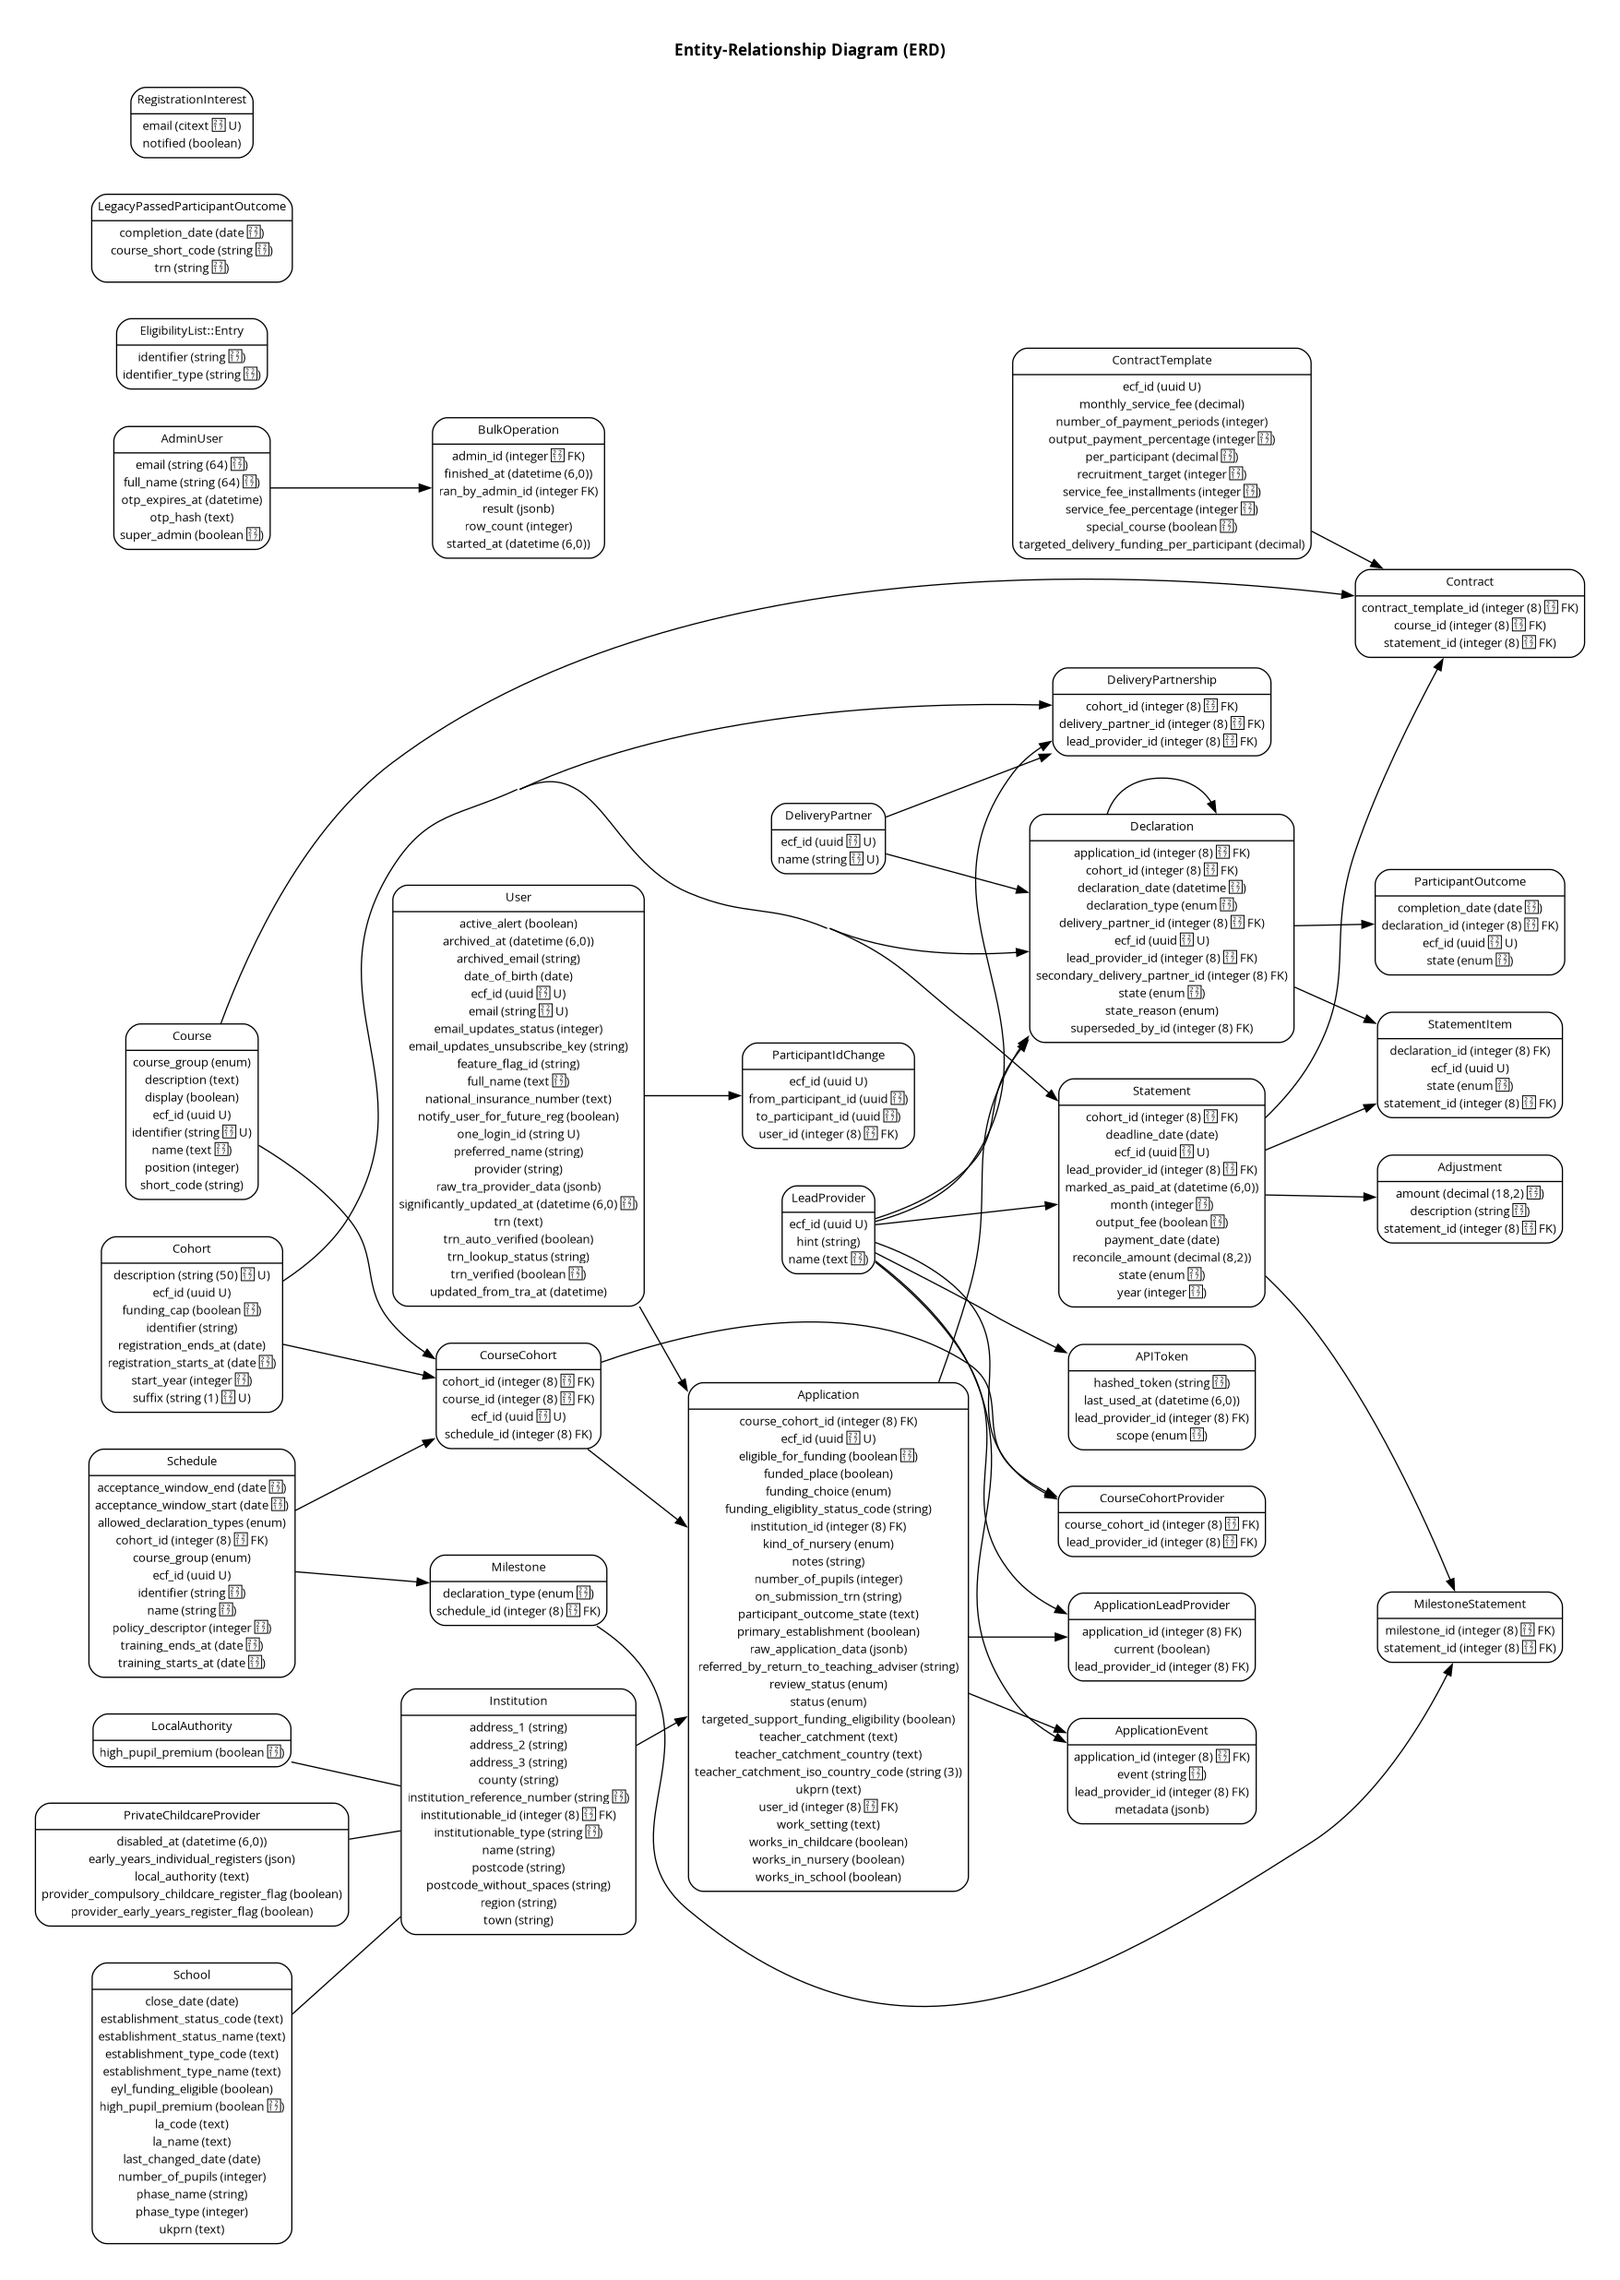
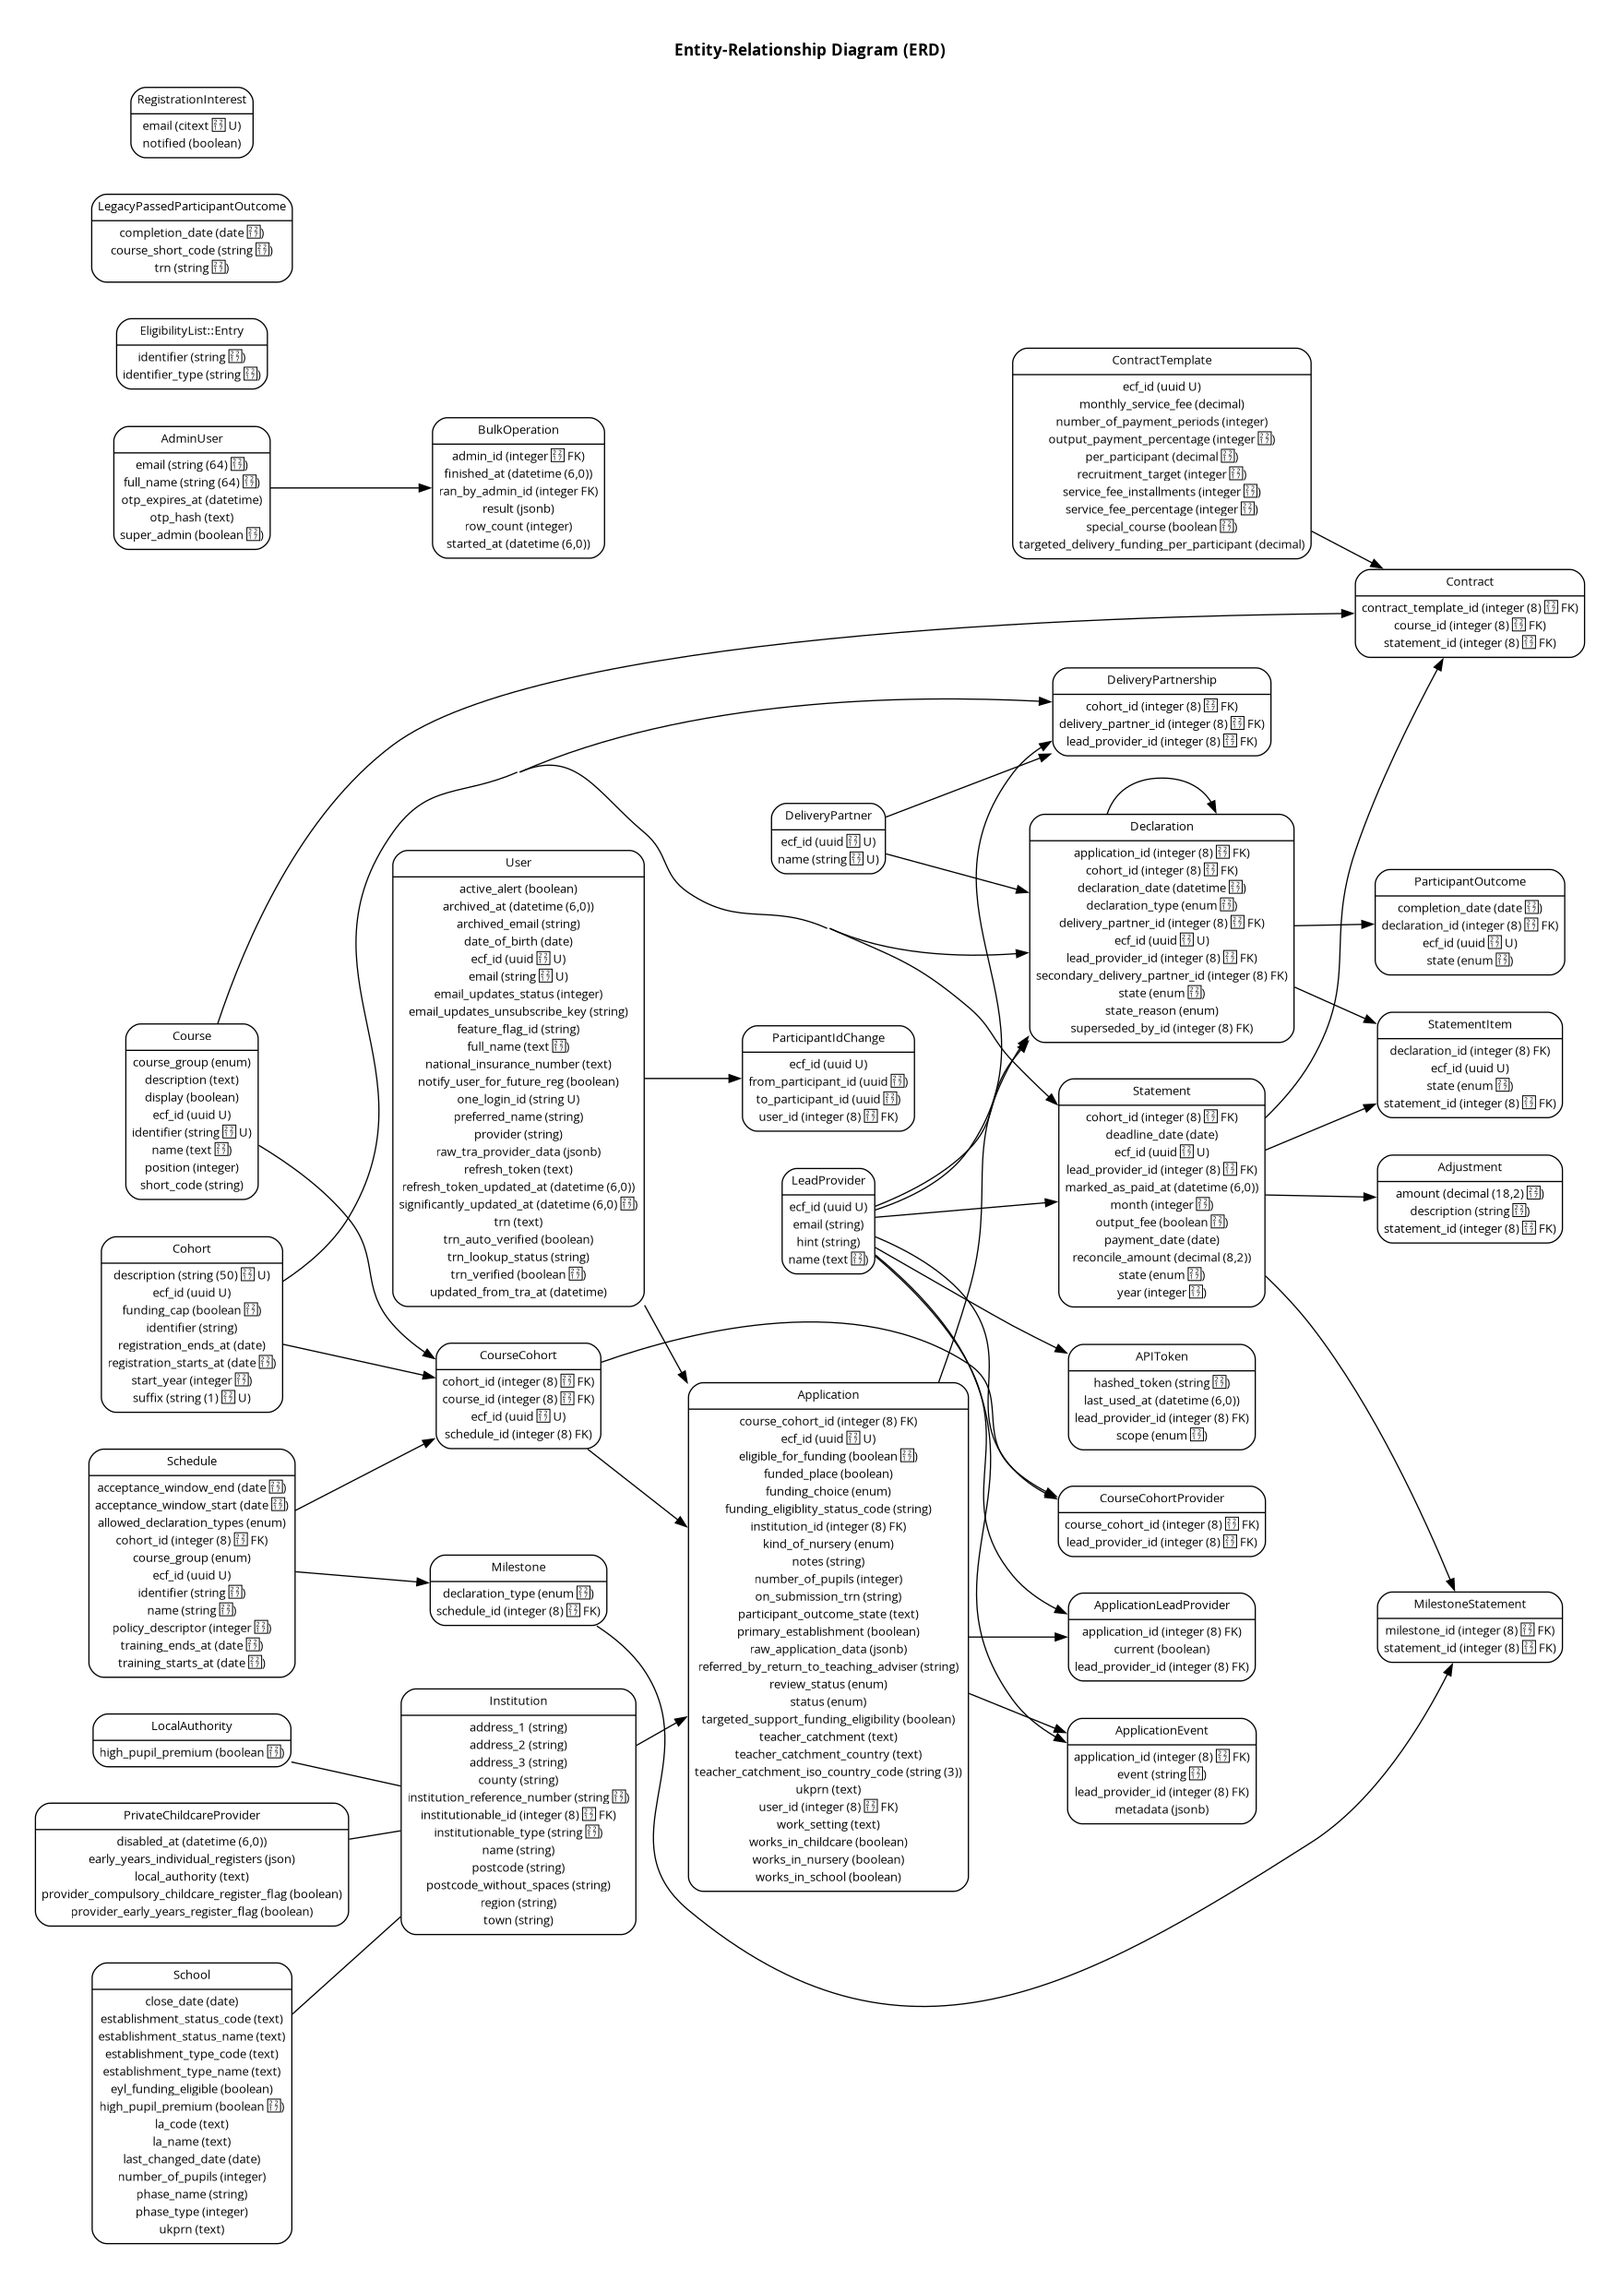
Add ActiveRecord encryption for refresh_token

diff --git a/db/schema.rb b/db/schema.rb
@@ -580,6 +580,8 @@ ActiveRecord::Schema[8.1].define(version: 2026_05_13_120000) do
     t.string "preferred_name"
     t.string "provider"
     t.jsonb "raw_tra_provider_data"
+    t.text "refresh_token"
+    t.datetime "refresh_token_updated_at"
     t.datetime "significantly_updated_at", default: -> { "CURRENT_TIMESTAMP" }, null: false
     t.text "trn"
     t.boolean "trn_auto_verified", default: false
@@ -592,6 +594,7 @@ ActiveRecord::Schema[8.1].define(version: 2026_05_13_120000) do
     t.index ["email"], name: "index_users_on_email", unique: true
     t.index ["one_login_id"], name: "index_users_on_one_login_id", unique: true
     t.index ["provider"], name: "index_users_on_provider"
+    t.index ["refresh_token_updated_at"], name: "index_users_on_refresh_token_updated_at"
     t.index ["significantly_updated_at"], name: "index_users_on_significantly_updated_at"
     t.index ["trn"], name: "index_users_on_trn"
   end

diff --git a/app/models/user.rb b/app/models/user.rb
@@ -1,4 +1,6 @@
 class User < ApplicationRecord
+  encrypts :refresh_token
+
   # TO DO: remove after succesful deploy
   self.ignored_columns += %w[get_an_identity_id_synced_to_ecf]
 
@@ -10,11 +12,13 @@ class User < ApplicationRecord
     notify_user_for_future_reg
     email_updates_status
     email_updates_unsubscribe_key
+    refresh_token
+    refresh_token_updated_at
   ].freeze
 
   devise :omniauthable, omniauth_providers: [Omniauth::Strategies::TeacherAuth::NAME]
 
-  has_paper_trail meta: { note: :version_note }, ignore: %i[raw_tra_provider_data updated_at feature_flag_id]
+  has_paper_trail meta: { note: :version_note }, ignore: %i[raw_tra_provider_data updated_at feature_flag_id refresh_token refresh_token_updated_at]
 
   has_many :applications, dependent: :destroy
   has_many :declarations, through: :applications

diff --git a/spec/features/journeys/happy_paths/basic_registration_journey_spec.rb b/spec/features/journeys/happy_paths/basic_registration_journey_spec.rb
@@ -114,6 +114,8 @@ RSpec.feature "Happy journeys", :with_default_lead_provider, :with_default_sched
                                                              "notify_user_for_future_reg" => false,
                                                              "preferred_name" => nil,
                                                              "raw_tra_provider_data" => nil,
+                                                             "refresh_token" => nil,
+                                                             "refresh_token_updated_at" => nil,
                                                              "trn_auto_verified" => true,
                                                              "trn_lookup_status" => nil,
                                                              "trn_verified" => true,

diff --git a/config/initializers/active_record_encryption.rb b/config/initializers/active_record_encryption.rb
@@ -1,0 +1,9 @@
+# Test environment encryption keys are set in config/environments/test.rb
+# to ensure they're available before eager loading.
+unless Rails.env.test?
+  Rails.application.configure do
+    config.active_record.encryption.primary_key = Rails.application.credentials.dig(:active_record_encryption, :primary_key)
+    config.active_record.encryption.deterministic_key = Rails.application.credentials.dig(:active_record_encryption, :deterministic_key)
+    config.active_record.encryption.key_derivation_salt = Rails.application.credentials.dig(:active_record_encryption, :key_derivation_salt)
+  end
+end

diff --git a/config/environments/test.rb b/config/environments/test.rb
@@ -53,6 +53,11 @@ Rails.application.configure do
 
   config.middleware.use RackSessionAccess::Middleware
 
+  # ActiveRecord encryption keys for testing
+  config.active_record.encryption.primary_key = "test-primary-key-32-bytes-long!"
+  config.active_record.encryption.deterministic_key = "test-deterministic-key-32-bytes!"
+  config.active_record.encryption.key_derivation_salt = "test-key-derivation-salt-value!"
+
   config.service_base_url = "http://test.tte.education.gov.uk"
   config.sign_in_link = "http://test.sign_in.education.gov.uk"
   config.feedback_link = "http://test.feedback.education.gov.uk"

diff --git a/spec/lib/paper_trail_extensions/version_spec.rb b/spec/lib/paper_trail_extensions/version_spec.rb
@@ -74,7 +74,7 @@ RSpec.describe PaperTrailExtensions::Version, :versioning, type: :model do
           "whodunnit" => user_name,
           "created_at" => Time.zone.now,
           "note" => nil,
-          "object_changes" => user.attributes.keys.excluding(%w[updated_at raw_tra_provider_data feature_flag_id]),
+          "object_changes" => user.attributes.keys.excluding(%w[updated_at raw_tra_provider_data feature_flag_id refresh_token refresh_token_updated_at]),
         }
       end
 

diff --git a/spec/services/handle_submission_for_store_spec.rb b/spec/services/handle_submission_for_store_spec.rb
@@ -41,6 +41,8 @@ RSpec.describe HandleSubmissionForStore do
       "national_insurance_number" => nil,
       "notify_user_for_future_reg" => false,
       "preferred_name" => user.preferred_name,
+      "refresh_token" => nil,
+      "refresh_token_updated_at" => nil,
       "trn_auto_verified" => false,
       "trn_lookup_status" => nil,
       "trn_verified" => false,

diff --git a/db/migrate/20260512124235_add_refresh_token_to_users.rb b/db/migrate/20260512124235_add_refresh_token_to_users.rb
@@ -1,0 +1,7 @@
+class AddRefreshTokenToUsers < ActiveRecord::Migration[8.1]
+  def change
+    add_column :users, :refresh_token, :text
+    add_column :users, :refresh_token_updated_at, :datetime
+    safety_assured { add_index :users, :refresh_token_updated_at }
+  end
+end
